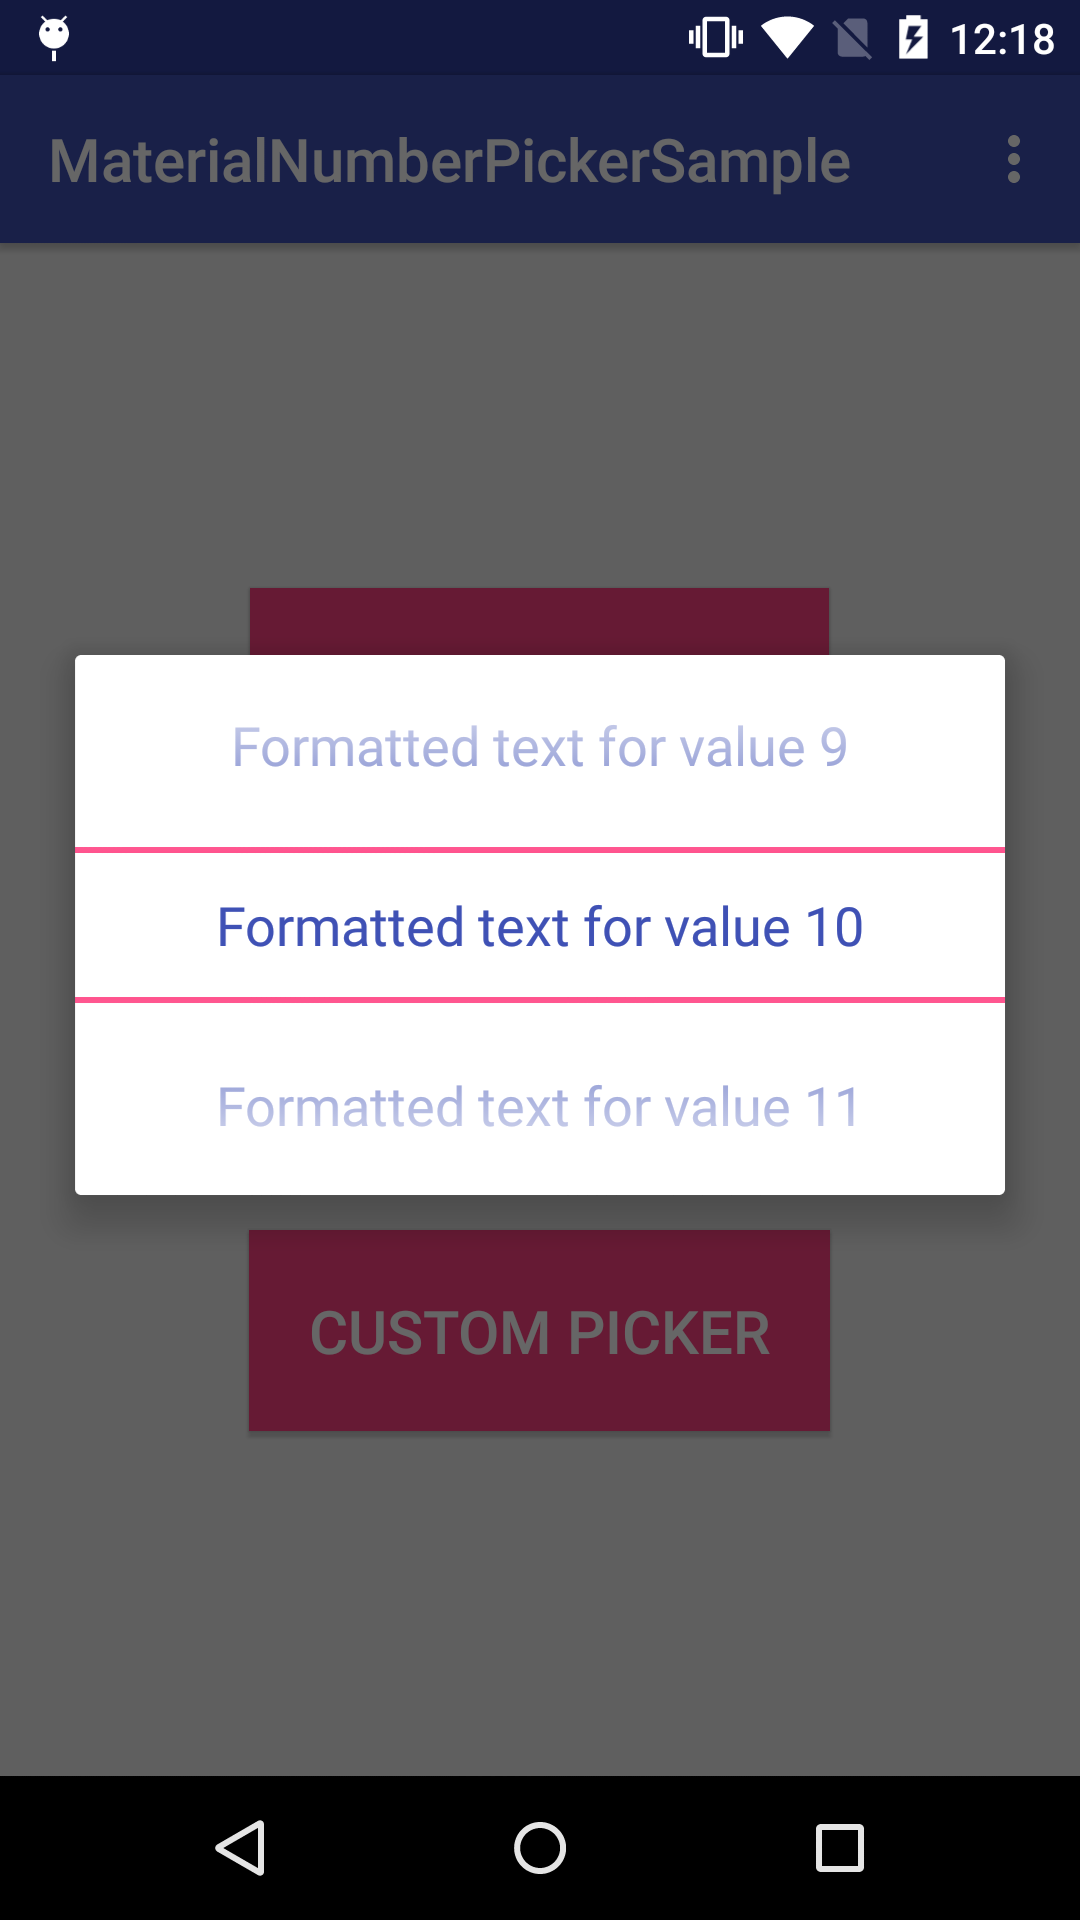
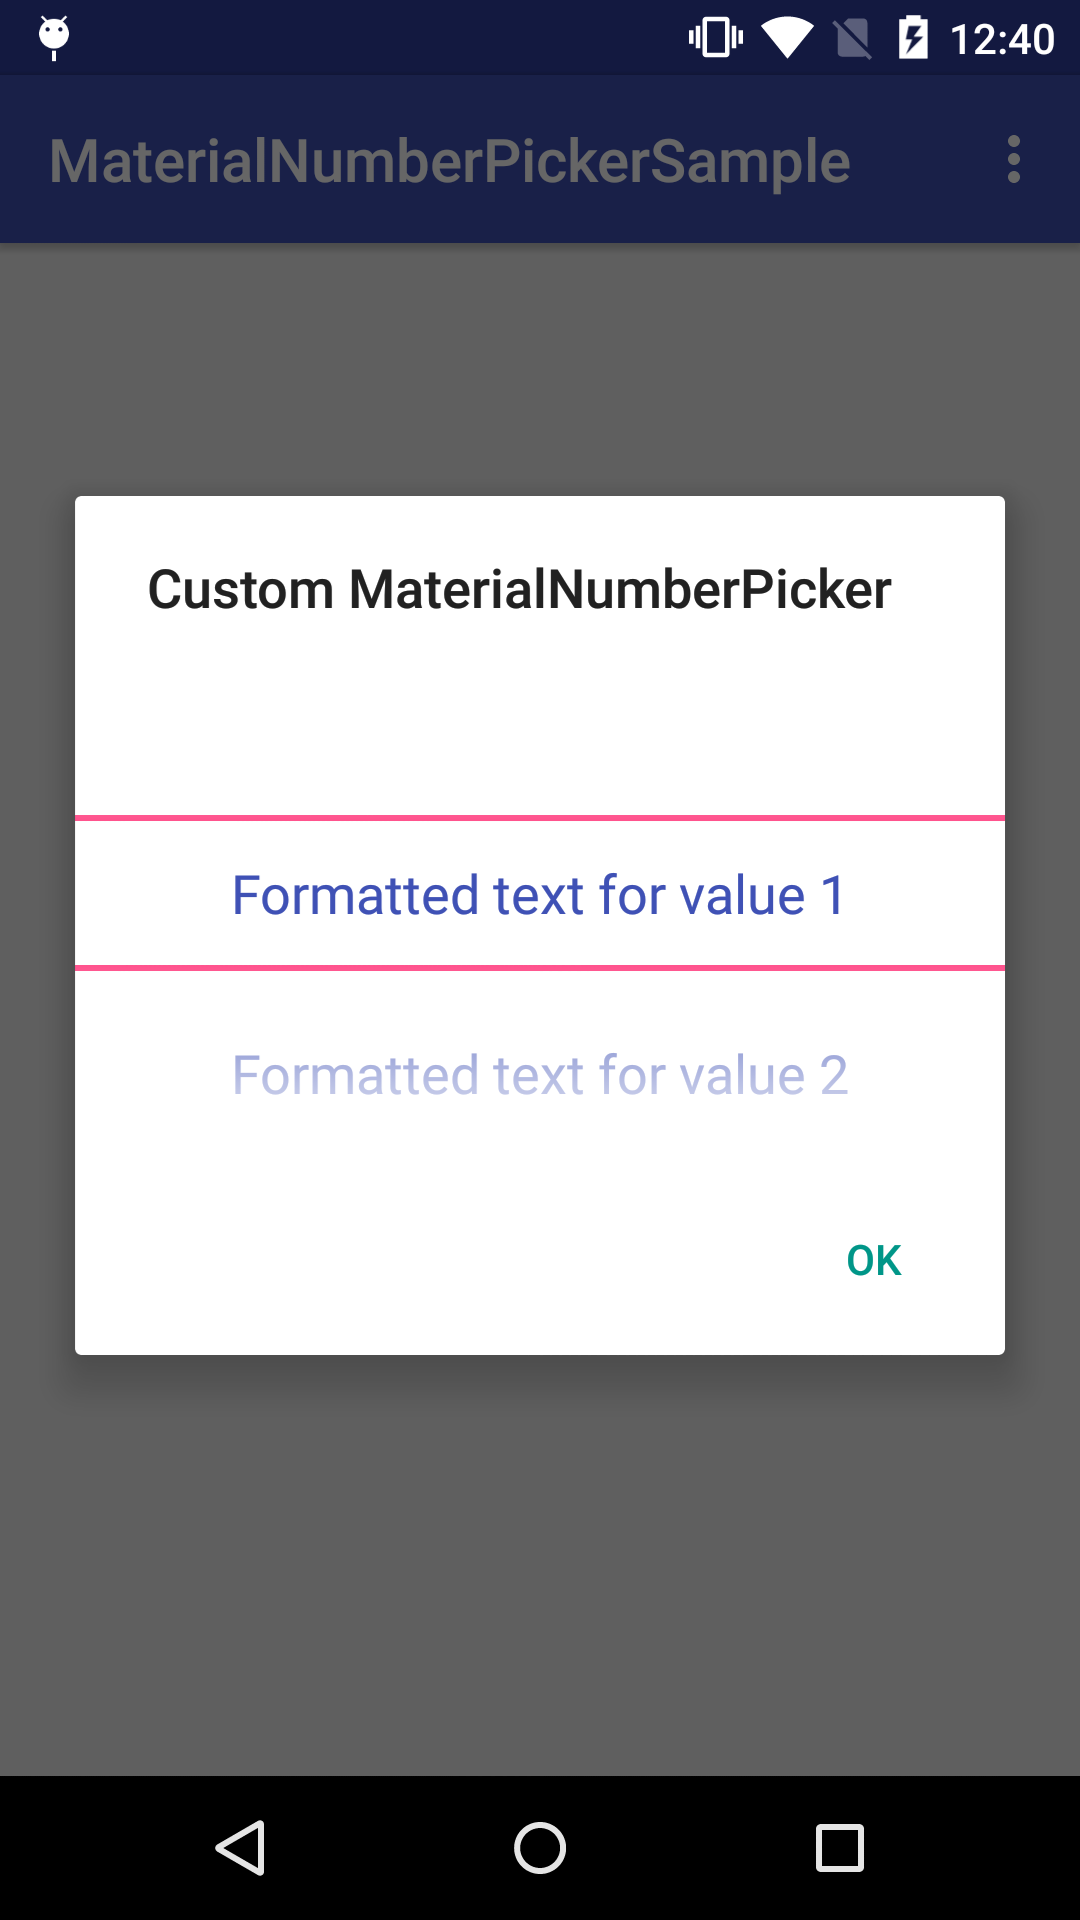
[*] Improve sample project and update images

diff --git a/sample/src/main/java/biz/kasual/materialnumberpickersample/MainActivity.java b/sample/src/main/java/biz/kasual/materialnumberpickersample/MainActivity.java
@@ -1,6 +1,8 @@
 package biz.kasual.materialnumberpickersample;
 
+import android.content.DialogInterface;
 import android.os.Bundle;
+import android.support.design.widget.Snackbar;
 import android.support.v4.content.ContextCompat;
 import android.support.v7.app.AlertDialog;
 import android.support.v7.app.AppCompatActivity;
@@ -37,10 +39,12 @@ public class MainActivity extends AppCompatActivity implements View.OnClickListe
 
     @Override
     public void onClick(View v) {
-        NumberPicker picker = null;
-
+        final NumberPicker picker;
+        String alertTitle = null;
 
         if (v.equals(mDefaultButton)) {
+            alertTitle = getString(R.string.alert_default_title);
+
             picker = new NumberPicker(this);
             picker.setMinValue(1);
             picker.setMaxValue(10);
@@ -48,7 +52,12 @@ public class MainActivity extends AppCompatActivity implements View.OnClickListe
         else {
             MaterialNumberPicker.Builder numberPickerBuilder = new MaterialNumberPicker.Builder(this);
 
-            if (v.equals(mCustomButton)) {
+            if (v.equals(mSimpleButton)) {
+                alertTitle = getString(R.string.alert_simple_title);
+            }
+            else if (v.equals(mCustomButton)) {
+                alertTitle = getString(R.string.alert_custom_title);
+
                 numberPickerBuilder
                         .minValue(1)
                         .maxValue(50)
@@ -66,7 +75,16 @@ public class MainActivity extends AppCompatActivity implements View.OnClickListe
             picker = numberPickerBuilder.build();
         }
 
-        new AlertDialog.Builder(this).setView(picker).show();
+        new AlertDialog.Builder(this)
+                .setTitle(alertTitle)
+                .setView(picker)
+                .setPositiveButton(getString(android.R.string.ok), new DialogInterface.OnClickListener() {
+                    @Override
+                    public void onClick(DialogInterface dialog, int which) {
+                        Snackbar.make(findViewById(R.id.main_container), getString(R.string.picker_value, picker.getValue()), Snackbar.LENGTH_LONG).show();
+                    }
+                })
+                .show();
     }
 
     @Override
